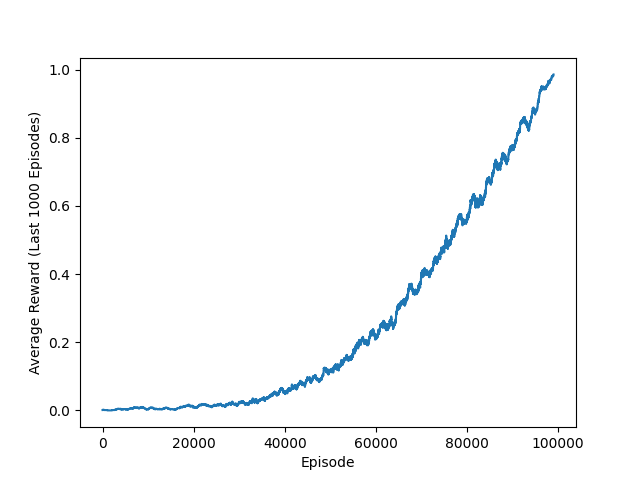
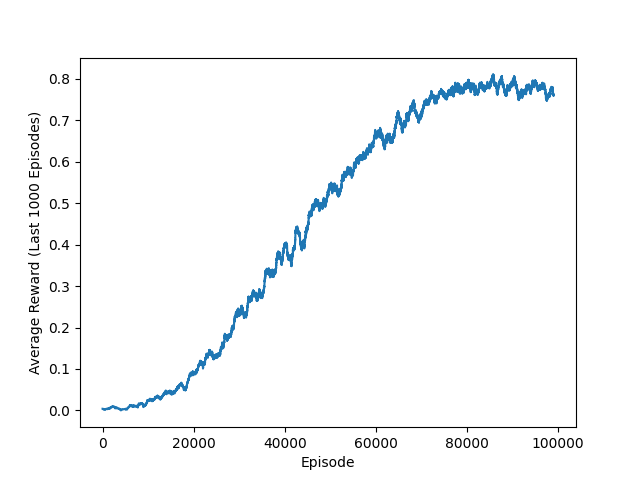
Fixed exponential epsilon decay rate function.

diff --git a/FrozenLake/qLearning.py b/FrozenLake/qLearning.py
@@ -12,9 +12,14 @@ import numpy as np
 class Hyperparameters:
     learning_rate: float = 0.9
     discount_factor: float = 0.9
-    epsilon: float = 1.0
+    initial_epsilon: float = 1.0
+    epsilon: float = None
     decay_rate: float = 0.00001
     decay_type: str = "linear"
+
+    def __post_init__(self):
+        if self.epsilon is None:
+            self.epsilon = self.initial_epsilon
 
 
 def setup_environment(render: bool = False) -> gym.Env:
@@ -97,7 +102,7 @@ def run_episode(
 
 def decay_epsilon(hp: Hyperparameters, episode: int) -> float:
     if hp.decay_type == "exponential":
-        return hp.epsilon * np.exp(-hp.decay_rate * episode)
+        return max(hp.initial_epsilon * np.exp(-hp.decay_rate * episode), 0.1)
     elif hp.decay_type == "linear":
         return max(hp.epsilon - hp.decay_rate, 0)
     else:
@@ -165,9 +170,9 @@ if __name__ == "__main__":
     hp = Hyperparameters(
         learning_rate=0.9,
         discount_factor=0.9,
-        epsilon=1.0,
-        decay_rate=0.00001,
-        decay_type="linear",
+        initial_epsilon=1.0,
+        decay_rate=0.00003,
+        decay_type="exponential",
     )
 
     q, rewards = run(
